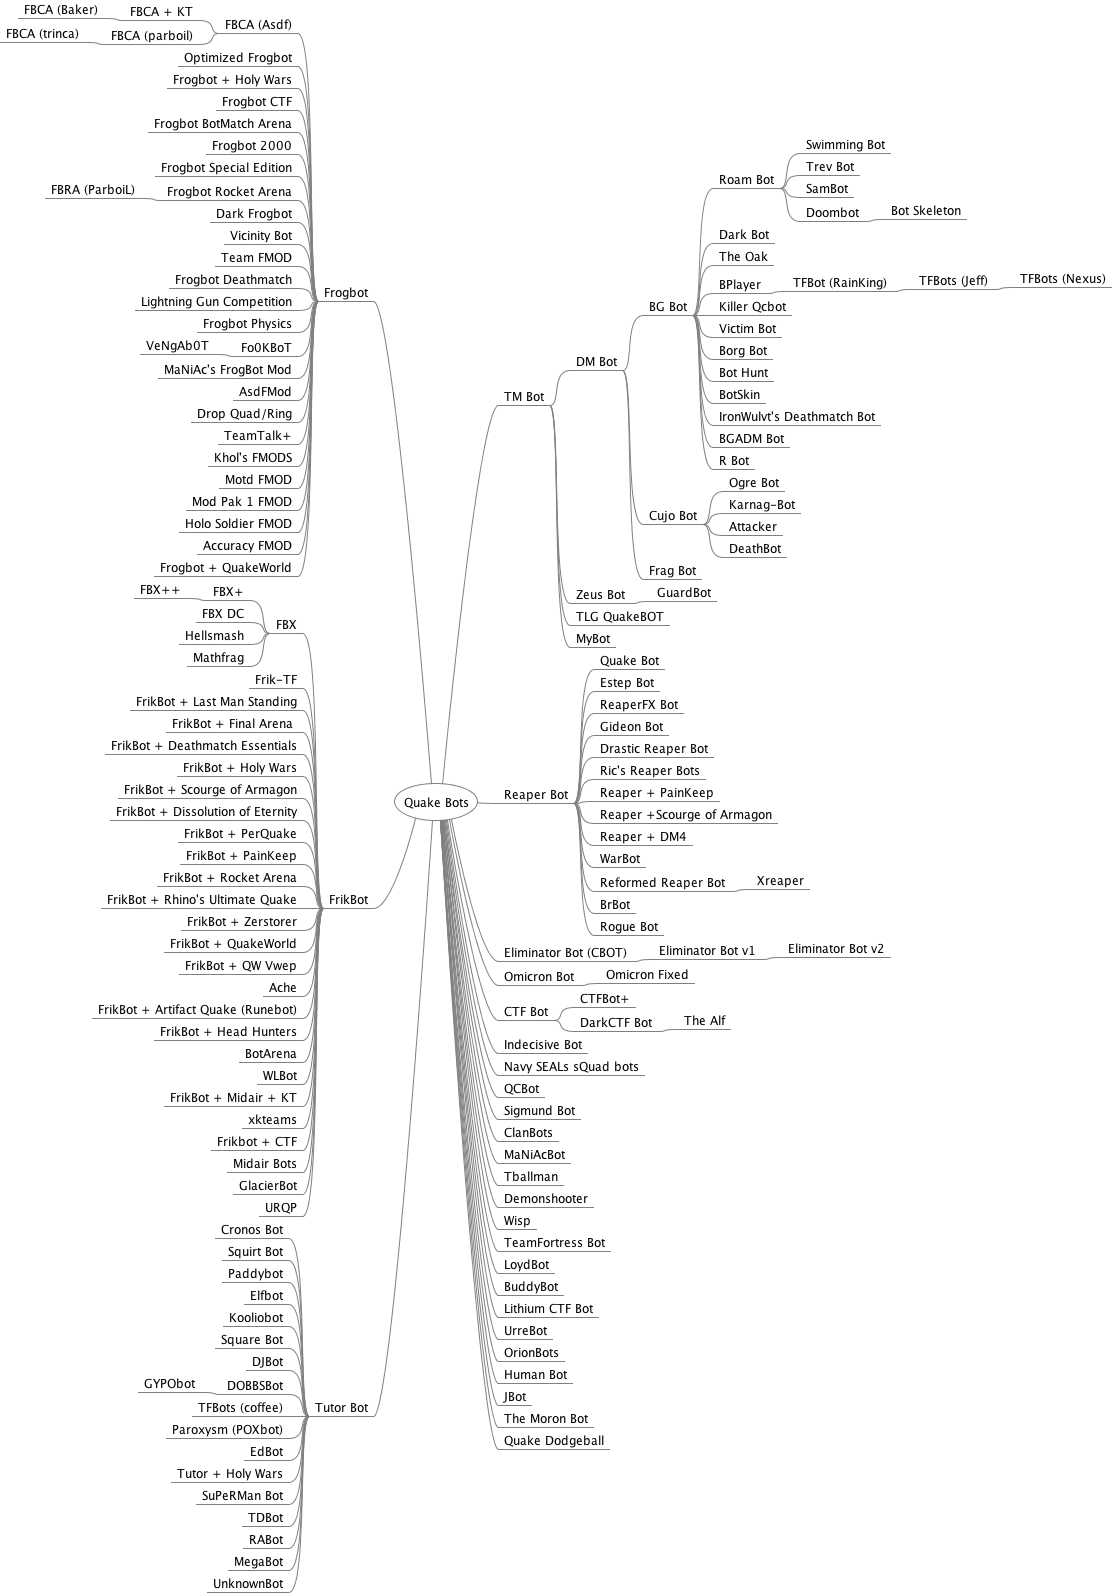
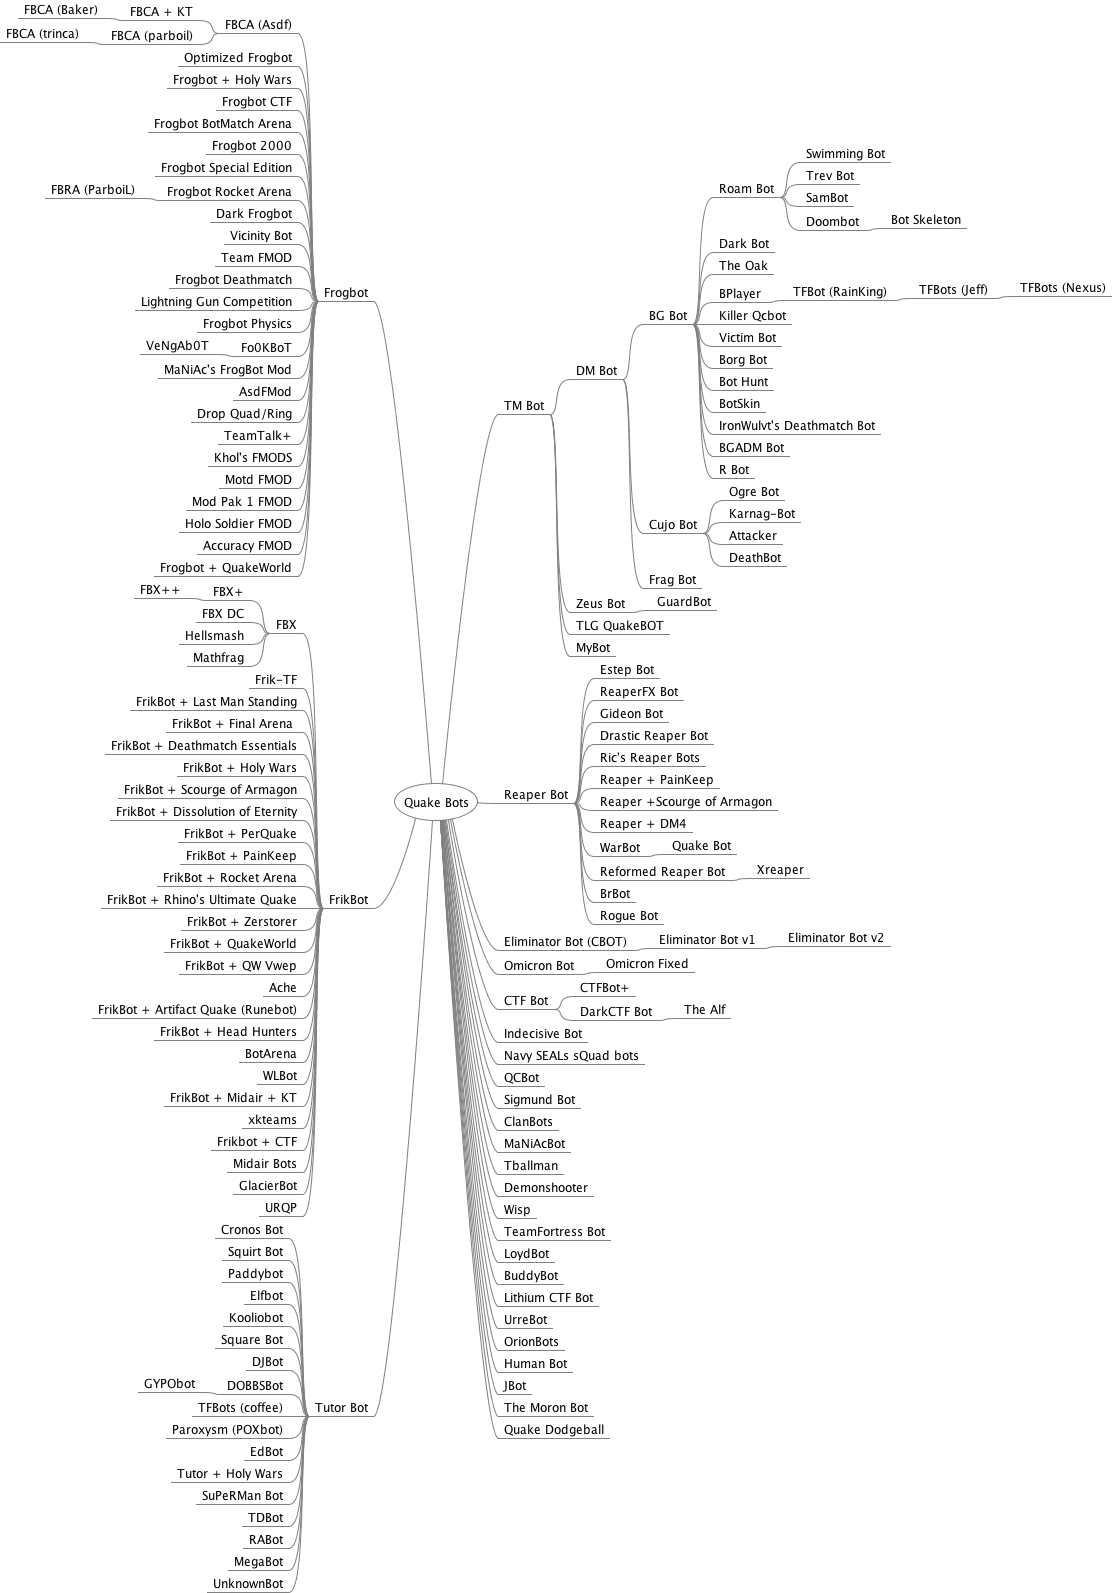
Updated warbot

diff --git a/mindmap/QuakeBots.mm b/mindmap/QuakeBots.mm
@@ -45,7 +45,6 @@
 <node CREATED="1622925929509" ID="ID_1590023145" MODIFIED="1622925932553" TEXT="MyBot"/>
 </node>
 <node CREATED="1622514191836" ID="ID_937776968" MODIFIED="1624235984908" POSITION="right" TEXT="Reaper Bot">
-<node CREATED="1622591700948" ID="ID_1772656642" MODIFIED="1622679969616" TEXT="Quake Bot"/>
 <node CREATED="1622593594030" ID="ID_97271700" MODIFIED="1622593595644" TEXT="Estep Bot"/>
 <node CREATED="1622594033428" ID="ID_466163906" MODIFIED="1622594034554" TEXT="ReaperFX Bot"/>
 <node CREATED="1622594496177" ID="ID_1512770589" MODIFIED="1622594497250" TEXT="Gideon Bot"/>
@@ -54,7 +53,9 @@
 <node CREATED="1623191450894" ID="ID_545078126" MODIFIED="1623191454973" TEXT="Reaper + PainKeep"/>
 <node CREATED="1622683913824" ID="ID_329641328" MODIFIED="1624059260451" TEXT="Reaper +Scourge of Armagon"/>
 <node CREATED="1623191858163" ID="ID_668069096" MODIFIED="1623191859440" TEXT="Reaper + DM4"/>
-<node CREATED="1624235341440" ID="ID_313945555" MODIFIED="1624235343823" TEXT="WarBot"/>
+<node CREATED="1624235341440" ID="ID_313945555" MODIFIED="1624235343823" TEXT="WarBot">
+<node CREATED="1622591700948" ID="ID_1772656642" MODIFIED="1622679969616" TEXT="Quake Bot"/>
+</node>
 <node CREATED="1624235985408" ID="ID_1341417054" MODIFIED="1624235986320" TEXT="Reformed Reaper Bot">
 <node CREATED="1622593071377" ID="ID_561622825" MODIFIED="1622593075037" TEXT="Xreaper"/>
 </node>
